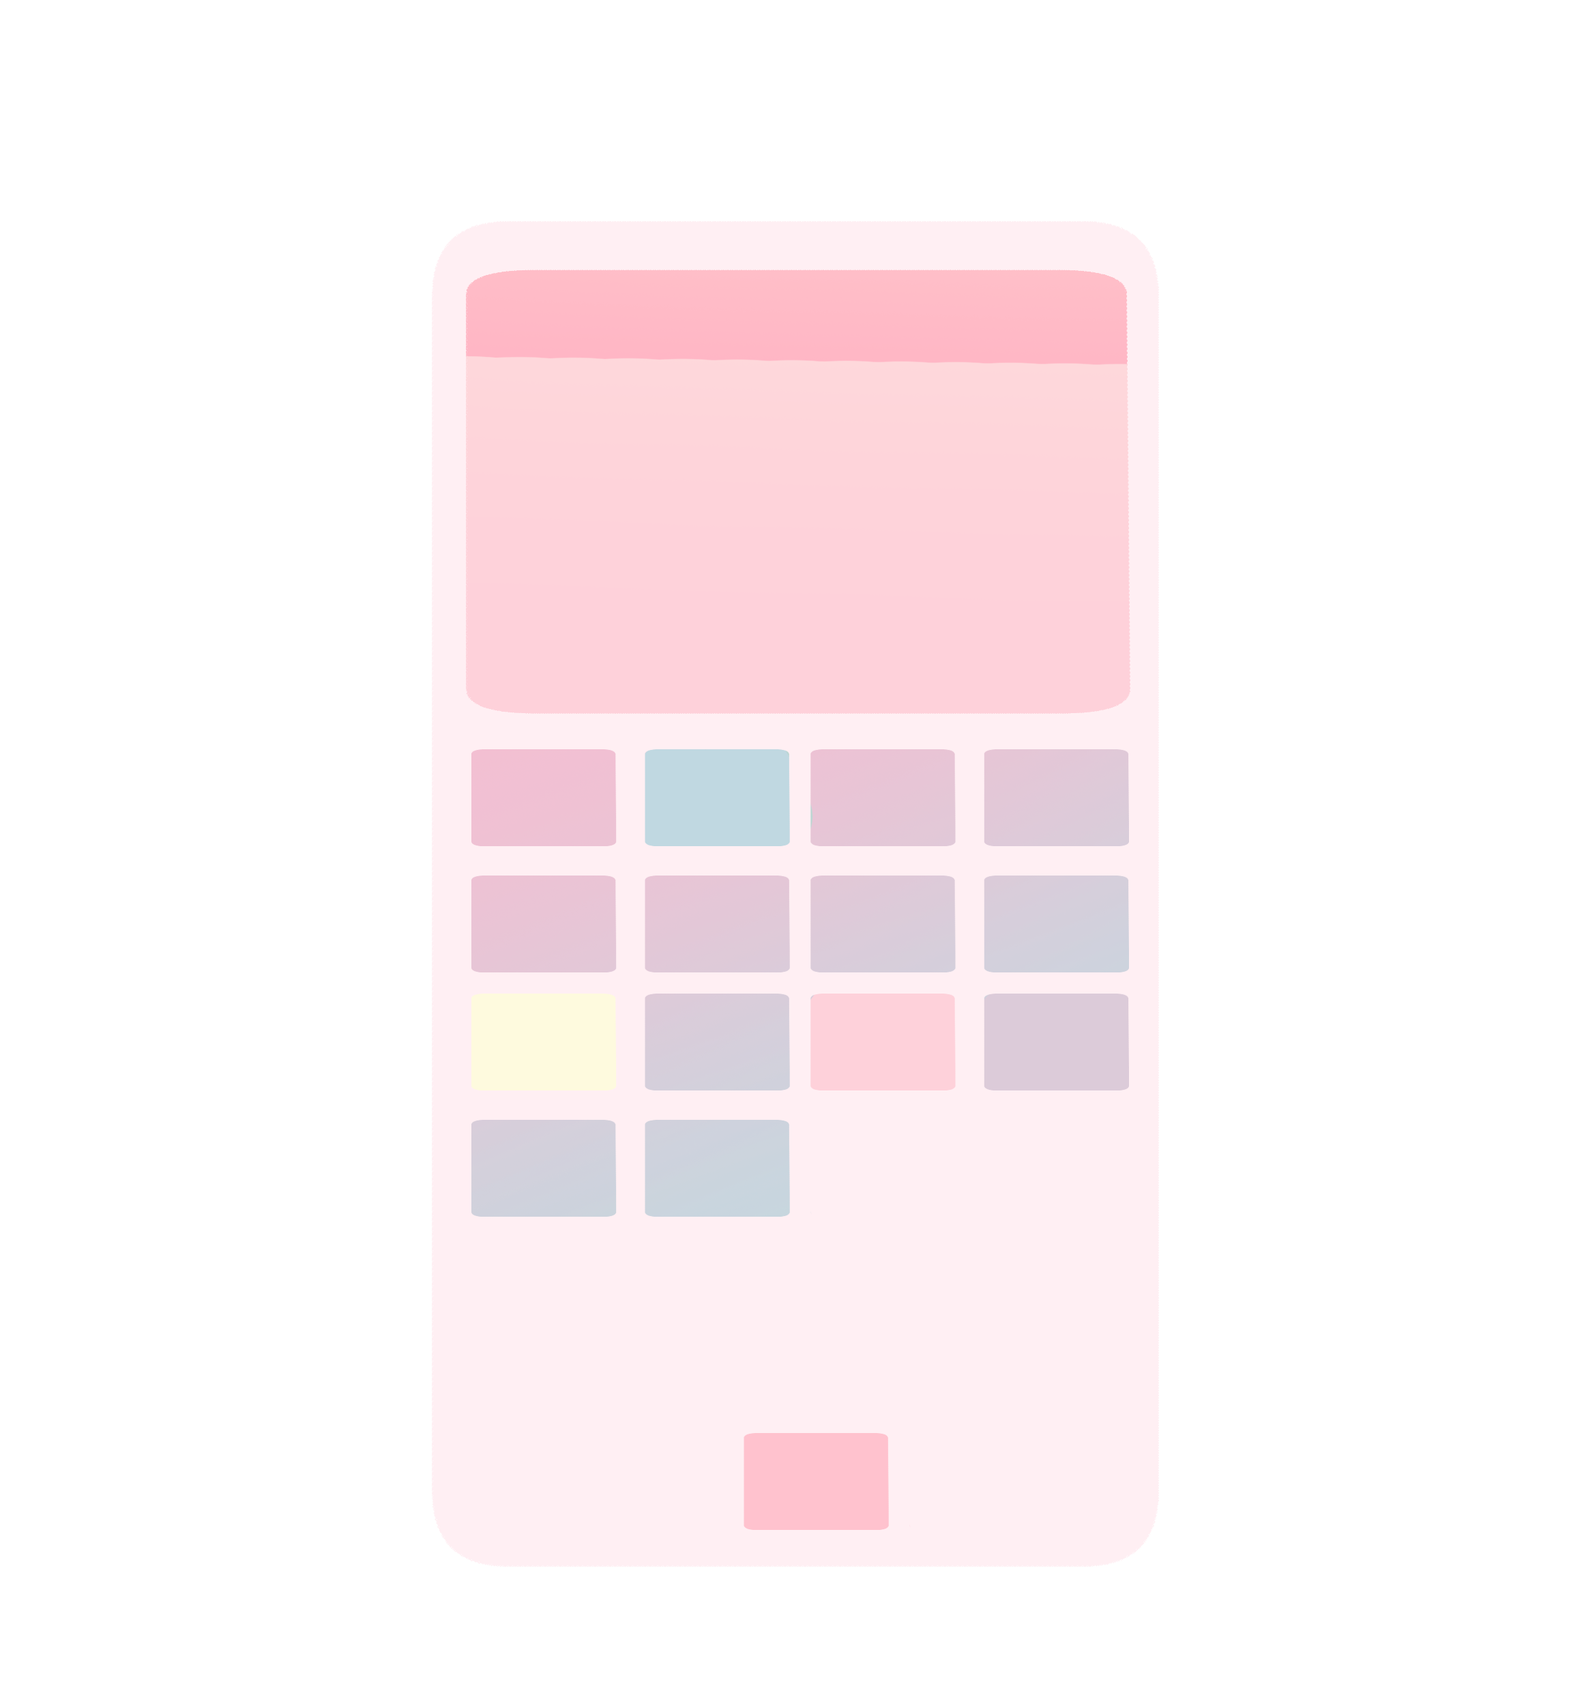
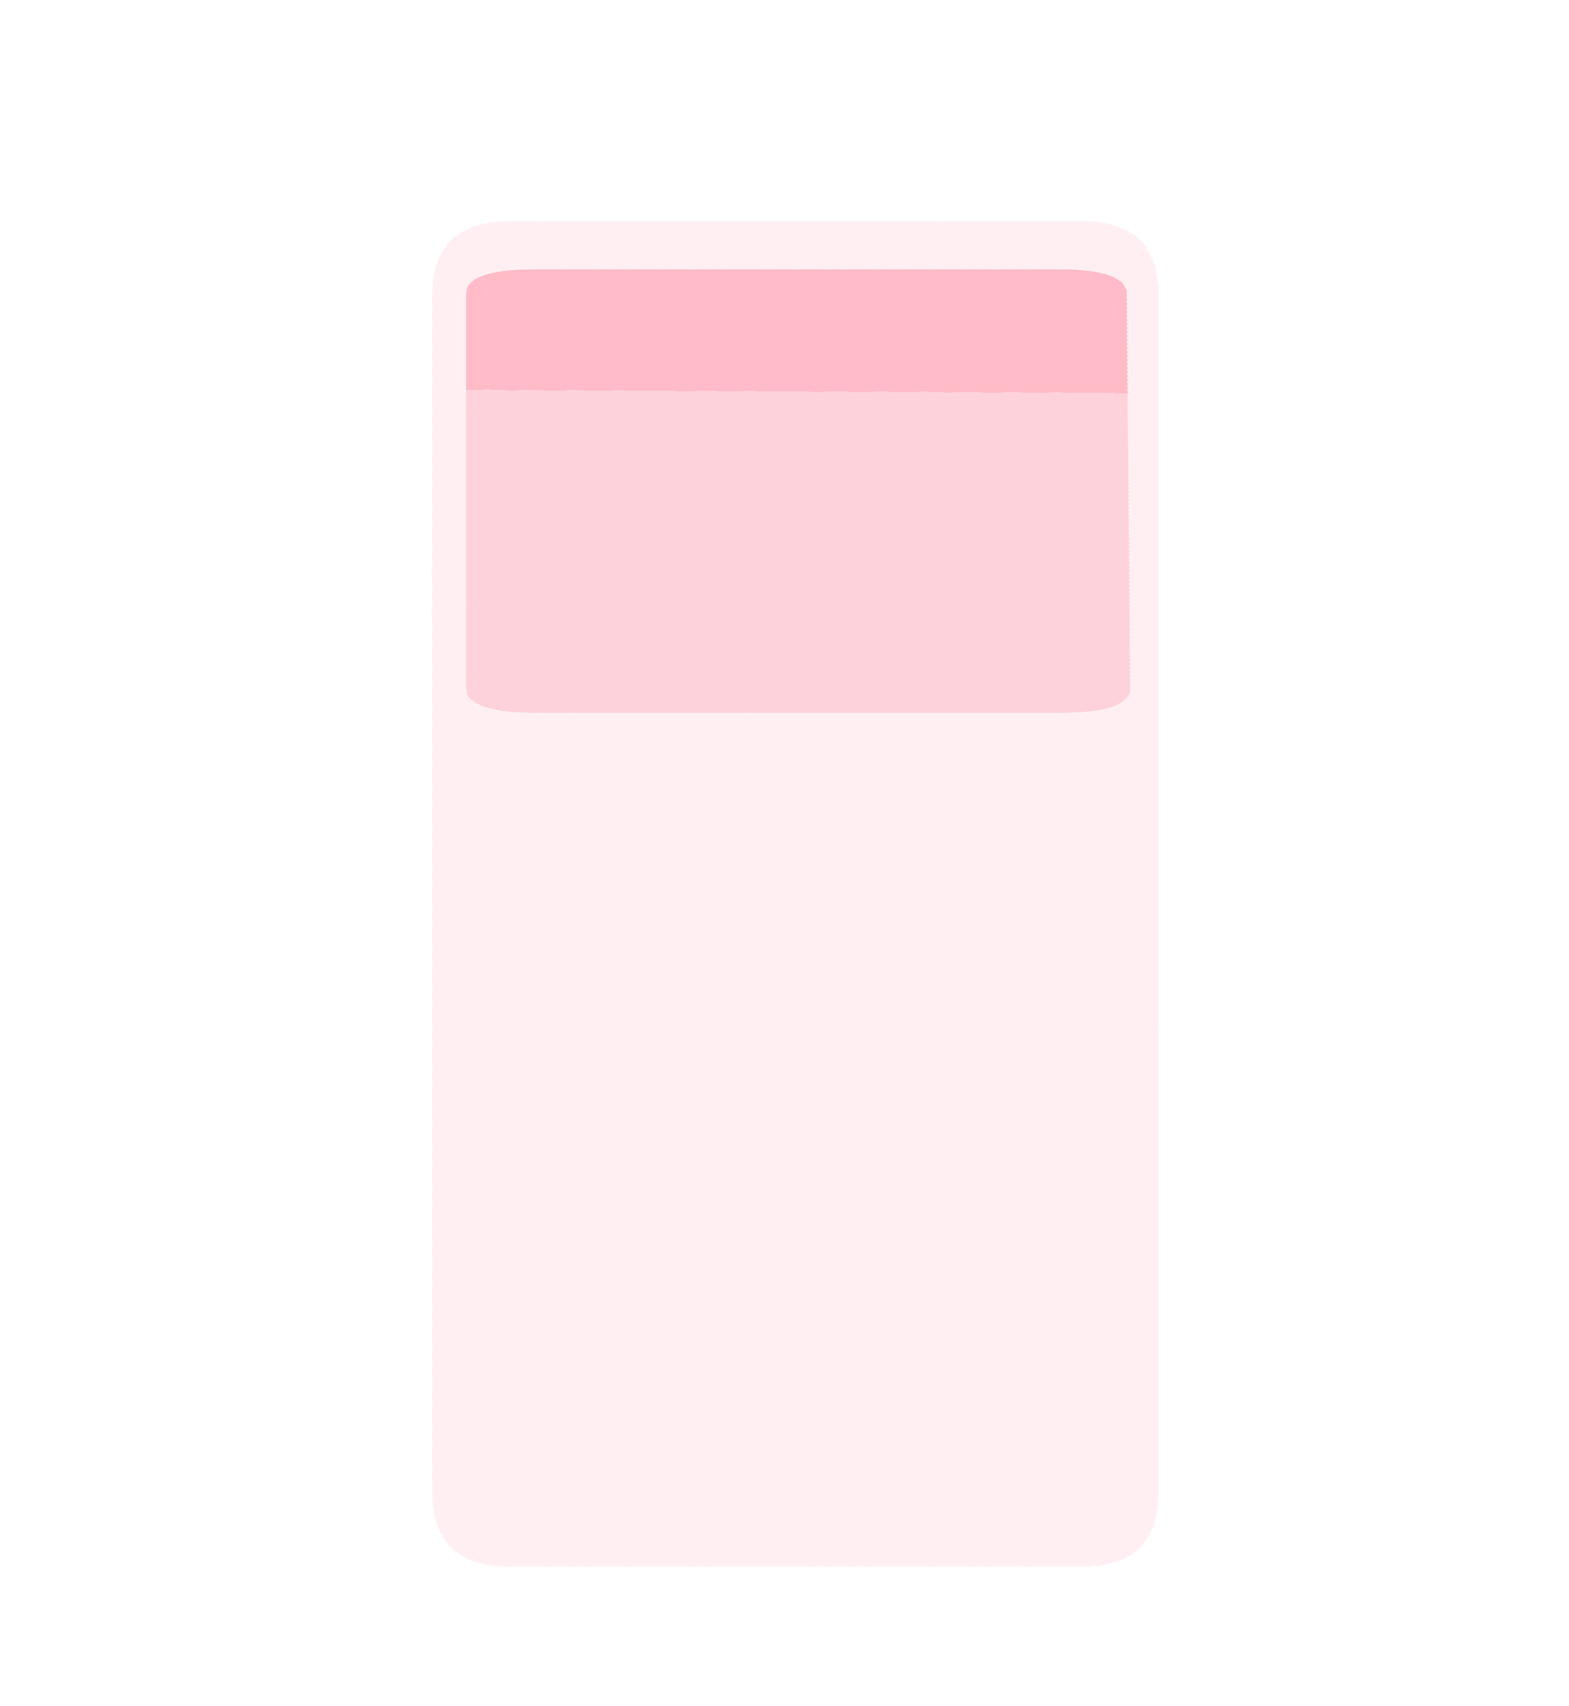
ok ok

Changed region(s): [[0.2778, 0.4368, 0.7409, 0.7176], [0.2778, 0.1872, 0.7409, 0.2496], [0.463, 0.8424, 0.5865, 0.9048]]

diff --git a/Commands/ShopSystem.cs b/Commands/ShopSystem.cs
@@ -14,28 +14,154 @@ public class ShopSystem {
     public async Task PostShopContents(SocketSlashCommand command) {
         await command.DeferAsync();
         
-        var items = new[] { "temp1", "temp2", "temp3", "temp4" };
+        var items = new[] { "Full Bundle!", "Case", "Charm", "Wallpaper", "ID Skin"};
 
-        var container = new ContainerBuilder()
-            .WithAccentColor(Color.Blue)
+        var containerSakura = new ContainerBuilder()
+            .WithAccentColor(new Color(254,201,209))
             .AddComponent(new TextDisplayBuilder().WithContent("**Shop Contents**"))
-            .AddComponent(new SeparatorBuilder().WithIsDivider(true))
+            .AddComponent(new SeparatorBuilder().WithIsDivider(true).WithSpacing(SeparatorSpacingSize.Large))
             .AddComponent(new ActionRowBuilder()
-                .WithButton($"Buy {items[0]}", customId: "buy_item_1", style: ButtonStyle.Secondary)
-                .WithButton($"Buy {items[1]}", customId: "buy_item_2", style: ButtonStyle.Secondary)
-                .WithButton($"Buy {items[2]}", customId: "buy_item_3", style: ButtonStyle.Secondary)
-                .WithButton($"Buy {items[3]}", customId: "buy_item_4", style: ButtonStyle.Secondary)
+                .WithButton($"Buy {items[0]}", customId: $"buy_item_1_{command.User.Id}_{command.Channel.Id}", style: ButtonStyle.Secondary)
+                .WithButton($"Buy {items[1]}", customId: $"buy_item_2_{command.User.Id}_{command.Channel.Id}", style: ButtonStyle.Secondary)
+                .WithButton($"Buy {items[2]}", customId: $"buy_item_3_{command.User.Id}_{command.Channel.Id}", style: ButtonStyle.Secondary)
+                .WithButton($"Buy {items[3]}", customId: $"buy_item_4_{command.User.Id}_{command.Channel.Id}", style: ButtonStyle.Secondary)
+            );
+        
+        var containerSango = new ContainerBuilder()
+            .WithAccentColor(new Color(160,41,39))
+            .AddComponent(new SeparatorBuilder().WithIsDivider(true).WithSpacing(SeparatorSpacingSize.Large))
+            .AddComponent(new ActionRowBuilder()
+                .WithButton($"Buy {items[0]}", customId: $"buy_item_5_{command.User.Id}_{command.Channel.Id}", style: ButtonStyle.Secondary)
+                .WithButton($"Buy {items[1]}", customId: $"buy_item_6_{command.User.Id}_{command.Channel.Id}", style: ButtonStyle.Secondary)
+                .WithButton($"Buy {items[2]}", customId: $"buy_item_7_{command.User.Id}_{command.Channel.Id}", style: ButtonStyle.Secondary)
+                .WithButton($"Buy {items[3]}", customId: $"buy_item_8_{command.User.Id}_{command.Channel.Id}", style: ButtonStyle.Secondary)
+            );
+        
+        var containerTech = new ContainerBuilder()
+            .WithAccentColor(new Color(0,0,156))
+            .AddComponent(new SeparatorBuilder().WithIsDivider(true).WithSpacing(SeparatorSpacingSize.Large))
+            .AddComponent(new ActionRowBuilder()
+                .WithButton($"Buy {items[0]}", customId: $"buy_item_9_{command.User.Id}_{command.Channel.Id}", style: ButtonStyle.Secondary)
+                .WithButton($"Buy {items[1]}", customId: $"buy_item_10_{command.User.Id}_{command.Channel.Id}", style: ButtonStyle.Secondary)
+                .WithButton($"Buy {items[2]}", customId: $"buy_item_11_{command.User.Id}_{command.Channel.Id}", style: ButtonStyle.Secondary)
+            );
+        
+        var containerIds = new ContainerBuilder()
+            .WithAccentColor(new Color(0,0,0))
+            .AddComponent(new SeparatorBuilder().WithIsDivider(true).WithSpacing(SeparatorSpacingSize.Large))
+            .AddComponent(new ActionRowBuilder()
+                .WithButton($"Buy Pink {items[4]}", customId: $"buy_item_12_{command.User.Id}_{command.Channel.Id}", style: ButtonStyle.Secondary)
+                .WithButton($"Buy Red {items[4]}", customId: $"buy_item_13_{command.User.Id}_{command.Channel.Id}", style: ButtonStyle.Secondary)
+                .WithButton($"Buy Green {items[4]}", customId: $"buy_item_14_{command.User.Id}_{command.Channel.Id}", style: ButtonStyle.Secondary)
+                .WithButton($"Buy Blue {items[4]}", customId: $"buy_item_15_{command.User.Id}_{command.Channel.Id}", style: ButtonStyle.Secondary)
             );
 
         var components = new ComponentBuilderV2()
             .WithTextDisplay(new TextDisplayBuilder().WithContent("temp"))
             .WithSeparator(new SeparatorBuilder().WithIsDivider(true))
-            .AddComponent(container)
+            .AddComponent(containerSakura)
+            .AddComponent(containerSango)
+            .AddComponent(containerTech)
+            .AddComponent(containerIds)
             .Build();
 
         await command.FollowupAsync(
             components: components,
             flags: MessageFlags.ComponentsV2
         );
+    }
+
+    public async Task Buy(int num, ulong ownerId, ulong channelId, SocketGuild guild) {
+
+        var prices = new[] {8000, 3000, 4000, 10000};
+        var channel = guild.GetTextChannel(channelId);
+        
+        switch (num) {
+            
+            case 1:
+                if (await CheckBeforeBuy(ownerId, prices[0] + prices[1] + prices[2] - 1000)) {
+                    await _db.GiveNewCase(ownerId, "SAKURA");
+                    await _db.GiveNewCharm(ownerId, "SAKURA");
+                    await _db.GiveNewWallpaper(ownerId, "SAKURA");
+                }
+                
+                break;
+            case 2:
+                if (await CheckBeforeBuy(ownerId, prices[0]))
+                    await _db.GiveNewCase(ownerId, "SAKURA");
+                break;
+            case 3:
+                if (await CheckBeforeBuy(ownerId, prices[1]))
+                    await _db.GiveNewCharm(ownerId, "SAKURA");
+                break;
+            case 4:
+                if (await CheckBeforeBuy(ownerId, prices[2]))
+                    await _db.GiveNewWallpaper(ownerId, "SAKURA");
+                break;
+            case 5:
+                if (await CheckBeforeBuy(ownerId, prices[0] + prices[1] + prices[2] - 1000)) {
+                    await _db.GiveNewCase(ownerId, "SANGO");
+                    await _db.GiveNewCharm(ownerId, "SANGO");
+                    await _db.GiveNewWallpaper(ownerId, "SANGO");
+                }
+                break;
+            case 6:
+                if (await CheckBeforeBuy(ownerId, prices[0]))
+                    await _db.GiveNewCase(ownerId, "SANGO");
+                break;
+            case 7:
+                if (await CheckBeforeBuy(ownerId, prices[1]))
+                    await _db.GiveNewCharm(ownerId, "SANGO");
+                break;
+            case 8:
+                if (await CheckBeforeBuy(ownerId, prices[2]))
+                    await _db.GiveNewWallpaper(ownerId, "SANGO");
+                break;
+            case 9:
+                if (await CheckBeforeBuy(ownerId, prices[0] + prices[2] - 1000)) {
+                    await _db.GiveNewCase(ownerId, "TECH");
+                    await _db.GiveNewWallpaper(ownerId, "TECH");
+                }
+                break;
+            case 10:
+                if (await CheckBeforeBuy(ownerId, prices[0]))
+                    await _db.GiveNewCase(ownerId, "TECH");
+                break;
+            case 11:
+                if (await CheckBeforeBuy(ownerId, prices[2]))
+                    await _db.GiveNewWallpaper(ownerId, "TECH");
+                break;
+            case 12:
+                if (await CheckBeforeBuy(ownerId, prices[3]))
+                    await _db.GiveNewId(ownerId, "PINK");
+                break;
+            case 13:
+                if (await CheckBeforeBuy(ownerId, prices[3]))
+                    await _db.GiveNewId(ownerId, "RED");
+                break;
+            case 14:
+                if (await CheckBeforeBuy(ownerId, prices[3]))
+                    await _db.GiveNewId(ownerId, "GREEN");
+                break;
+            case 15:
+                if (await CheckBeforeBuy(ownerId, prices[3]))
+                    await _db.GiveNewId(ownerId, "BLUE");
+                break;
+        }
+
+        var items = new[] { "Full Bundle!", "Case", "Charm", "Wallpaper", "ID Skin"};
+        var message = await channel.SendMessageAsync("You have bought a new " + items[num] + "! Enjoy. ^^");
+        using var timer = new PeriodicTimer(TimeSpan.FromSeconds(7));
+        await message.DeleteAsync();
+    }
+
+    private async Task<bool> CheckBeforeBuy(ulong ownerId, int num) {
+
+        if (await _db.GetYen(ownerId) >= num) 
+            await _db.RemoveYen(ownerId, num);
+        else
+            return false;
+        
+        return true;
     }
 }

diff --git a/Commands/CellSystem.cs b/Commands/CellSystem.cs
@@ -33,16 +33,20 @@ public class CellSystem {
                                          bool isIncrease) {
 
         var ownerId = command.User.Id; 
-        var hasEmulatorApp = appsParam.Contains(AppType.RHYTHMTENGOKU.ToString());
-        var flipCustomId = $"flip_over:{ownerId}|front|{caseType}|{charmType}|{wallpaperType}|{hasEmulatorApp}";
-
-        var (cellAttachment, cellImageUrl) = GetCellImage(hasEmulatorApp, caseType, charmType, wallpaperType, isFront: true, yen: yen, userId: ownerId, currentWeekEarnings: currentWeekEarnings, percentChange: percentChange, isIncrease: isIncrease);
+        var hasTengokuApp = appsParam.Contains(AppType.RHYTHMTENGOKU.ToString());
+        var hasMadouApp = appsParam.Contains(AppType.MADOUMONOGATARI.ToString());
+        var hasPuyoApp = appsParam.Contains(AppType.PUYOPUYOFEVER.ToString());
+        var hasLeafGreenApp = appsParam.Contains(AppType.POKEMONLEAFGREEN.ToString());
+        var hasTetrisApp = appsParam.Contains(AppType.TETRIS.ToString());
+        
+        var flipCustomId = $"flip_over:{ownerId}|front|{caseType}|{charmType}|{wallpaperType}|{hasTengokuApp}|{hasMadouApp}|{hasPuyoApp}|{hasLeafGreenApp}|{hasTetrisApp}";
+        var (cellAttachment, cellImageUrl) = GetCellImage(hasTengokuApp, false, false, false, false, caseType, charmType, wallpaperType, isFront: true, yen: yen, userId: ownerId, currentWeekEarnings: currentWeekEarnings, percentChange: percentChange, isIncrease: isIncrease);
 
         var container = new ContainerBuilder()
             .AddComponent(new MediaGalleryBuilder().AddItem(new MediaGalleryItemProperties(cellImageUrl)))
             .AddComponent(new ActionRowBuilder().WithButton("Flip Cellphone Over", customId: flipCustomId, style: ButtonStyle.Secondary));
 
-        if (hasEmulatorApp) {
+        if (hasTengokuApp) {
             var actionRow = new ActionRowBuilder()
                 .WithButton("Play Rhythm Tengoku", customId: $"launch_emulatorjs:{ownerId}", style: ButtonStyle.Success);
             container.AddComponent(actionRow);
@@ -103,20 +107,24 @@ public class CellSystem {
             var caseType = parts[2];
             var charmType = parts[3];
             var wallpaperType = parts[4];
-            var hasEmulatorApp = bool.Parse(parts[5]);
+            var hasTengokuApp = bool.Parse(parts[5]);
+            var hasMadouApp = bool.Parse(parts[6]);
+            var hasPuyoApp = bool.Parse(parts[7]);
+            var hasLeafGreenApp = bool.Parse(parts[8]);
+            var hasTetrisApp = bool.Parse(parts[9]);
 
             var nextSide = currentSide == "front" ? "back" : "front";
             var isFrontNext = nextSide == "front";
 
-            var nextCustomId = $"flip_over:{ownerId}|{nextSide}|{caseType}|{charmType}|{wallpaperType}|{hasEmulatorApp}";
+            var nextCustomId = $"flip_over:{ownerId}|{nextSide}|{caseType}|{charmType}|{wallpaperType}|{hasTengokuApp}|{hasMadouApp}|{hasPuyoApp}|{hasLeafGreenApp}|{hasTetrisApp}";
 
-            var (cellAttachment, cellImageUrl) = GetCellImage(hasEmulatorApp, caseType, charmType, wallpaperType, isFront: isFrontNext, yen: yen, userId: ownerId, currentWeekEarnings: currentWeekEarnings, percentChange: percentChange, isIncrease: isIncrease);
+            var (cellAttachment, cellImageUrl) = GetCellImage(hasTengokuApp, hasMadouApp, hasPuyoApp, hasLeafGreenApp, hasTetrisApp, caseType, charmType, wallpaperType, isFront: isFrontNext, yen: yen, userId: ownerId, currentWeekEarnings: currentWeekEarnings, percentChange: percentChange, isIncrease: isIncrease);
 
             var container = new ContainerBuilder()
                 .AddComponent(new MediaGalleryBuilder().AddItem(new MediaGalleryItemProperties(cellImageUrl)))
                 .AddComponent(new ActionRowBuilder().WithButton("Flip Cell Over", customId: nextCustomId, style: ButtonStyle.Secondary));
 
-            if (hasEmulatorApp) {
+            if (hasTengokuApp) {
                 var actionRow = new ActionRowBuilder()
                     .WithButton("Play Rhythm Tengoku", customId: $"launch_emulatorjs:{ownerId}", style: ButtonStyle.Success);
                 container.AddComponent(actionRow);
@@ -140,7 +148,11 @@ public class CellSystem {
         }
     }
 
-    private static (FileAttachment Attachment, string Url) GetCellImage(bool hasEmulatorApp,
+    private static (FileAttachment Attachment, string Url) GetCellImage(bool hasTengokuApp,
+                                                                          bool hasMadouApp,
+                                                                          bool hasPuyoApp,
+                                                                          bool hasLeafGreenApp,
+                                                                          bool hasTetrisApp,
                                                                           string caseType, 
                                                                           string charmType, 
                                                                           string wallpaperType, 
@@ -173,6 +185,9 @@ public class CellSystem {
             case "SANGO":
                 caseFile = isFront ? "sango-case-front.png" : "sango-case-back.png";
                 break;
+            case "TECH":
+                caseFile = isFront ? "tech-case-front.png" : "tech-case-back.png";
+                break;
         }
 
         switch (charmType) {
@@ -193,6 +208,9 @@ public class CellSystem {
                 break;
             case "SANGO":
                 wallpaperFile = "sango-wallpaper.png";
+                break;
+            case "TECH":
+                wallpaperFile = "tech-wallpaper.png";
                 break;
         }
         
@@ -217,11 +235,36 @@ public class CellSystem {
                 ipc.DrawText("Balance", fontBal, color, new Point(740, 640));
                 ipc.DrawText(BuildEarningsSummary(currentWeekEarnings, percentChange, isIncrease), fontTiny, color, new Point(800, 963));
 
-                if (hasEmulatorApp) {
+                if (hasTengokuApp) {
                     var app = Path.Combine(AppContext.BaseDirectory, "Images", "tengoku-app.png");
                     using var appImage = Image.Load(app);
                     ipc.DrawImage(appImage, new Point(0, 0), 1);
                 }
+                
+                if (hasMadouApp) {
+                    var app = Path.Combine(AppContext.BaseDirectory, "Images", "madou-app.png");
+                    using var appImage = Image.Load(app);
+                    ipc.DrawImage(appImage, new Point(0, 0), 1);
+                }
+                
+                if (hasPuyoApp) {
+                    var app = Path.Combine(AppContext.BaseDirectory, "Images", "puyo-app.png");
+                    using var appImage = Image.Load(app);
+                    ipc.DrawImage(appImage, new Point(0, 0), 1);
+                }
+                
+                if (hasLeafGreenApp) {
+                    var app = Path.Combine(AppContext.BaseDirectory, "Images", "leafgreen-app.png");
+                    using var appImage = Image.Load(app);
+                    ipc.DrawImage(appImage, new Point(0, 0), 1);
+                }
+                
+                if (hasTetrisApp) {
+                    var app = Path.Combine(AppContext.BaseDirectory, "Images", "tetris-app.png");
+                    using var appImage = Image.Load(app);
+                    ipc.DrawImage(appImage, new Point(0, 0), 1);
+                }
+                
             } else {
                 if (charm != null) {
                     ipc.DrawImage(charm, new Point(0, 0), 1);

diff --git a/CommandHandler.cs b/CommandHandler.cs
@@ -1141,6 +1141,24 @@ public class CommandHandler {
     public async Task ButtonHandler(SocketMessageComponent component) {
 
         var id = component.Data.CustomId;
+        var guild = _client.GetGuild((ulong)component.GuildId);
+
+        if (id.StartsWith("buy_item_")) {
+            
+            var parts = id.Split('_');
+            var itemNum = int.Parse(parts[2]);
+            var ownerId = ulong.Parse(parts[3]);
+            var channelId = ulong.Parse(parts[4]);
+
+            if (component.User.Id != ownerId)
+            {
+                await component.RespondAsync("This isn't your shop!", ephemeral: true);
+                return;
+            }
+
+            await _shopSystem.Buy(itemNum, ownerId, channelId, guild);
+            return;
+        }
 
         if (id.StartsWith("flip_over:")) {
             var statePayload = id.Substring("flip_over:".Length);

diff --git a/Data/AppType.cs b/Data/AppType.cs
@@ -2,5 +2,9 @@
 
 public enum AppType {
     
-    RHYTHMTENGOKU
+    RHYTHMTENGOKU,
+    MADOUMONOGATARI,
+    PUYOPUYOFEVER,
+    POKEMONLEAFGREEN,
+    TETRIS
 }

diff --git a/Data/IdType.cs b/Data/IdType.cs
@@ -9,4 +9,9 @@ public enum IdType {
     NEWGAMEPLUSSTAFF,
     ENLISTEDTANABATA,
     STAFFTANABATA,
+    
+    PINK,
+    RED,
+    GREEN,
+    BLUE,
 }

diff --git a/Data/CaseType.cs b/Data/CaseType.cs
@@ -4,5 +4,6 @@ public enum CaseType {
     
     BLACK,
     SAKURA,
-    SANGO
+    SANGO,
+    TECH
 }

diff --git a/Data/CharmType.cs b/Data/CharmType.cs
@@ -4,5 +4,6 @@ public enum CharmType {
     
     NONE,
     SAKURA,
-    SANGO
+    SANGO,
+    TECH
 }
